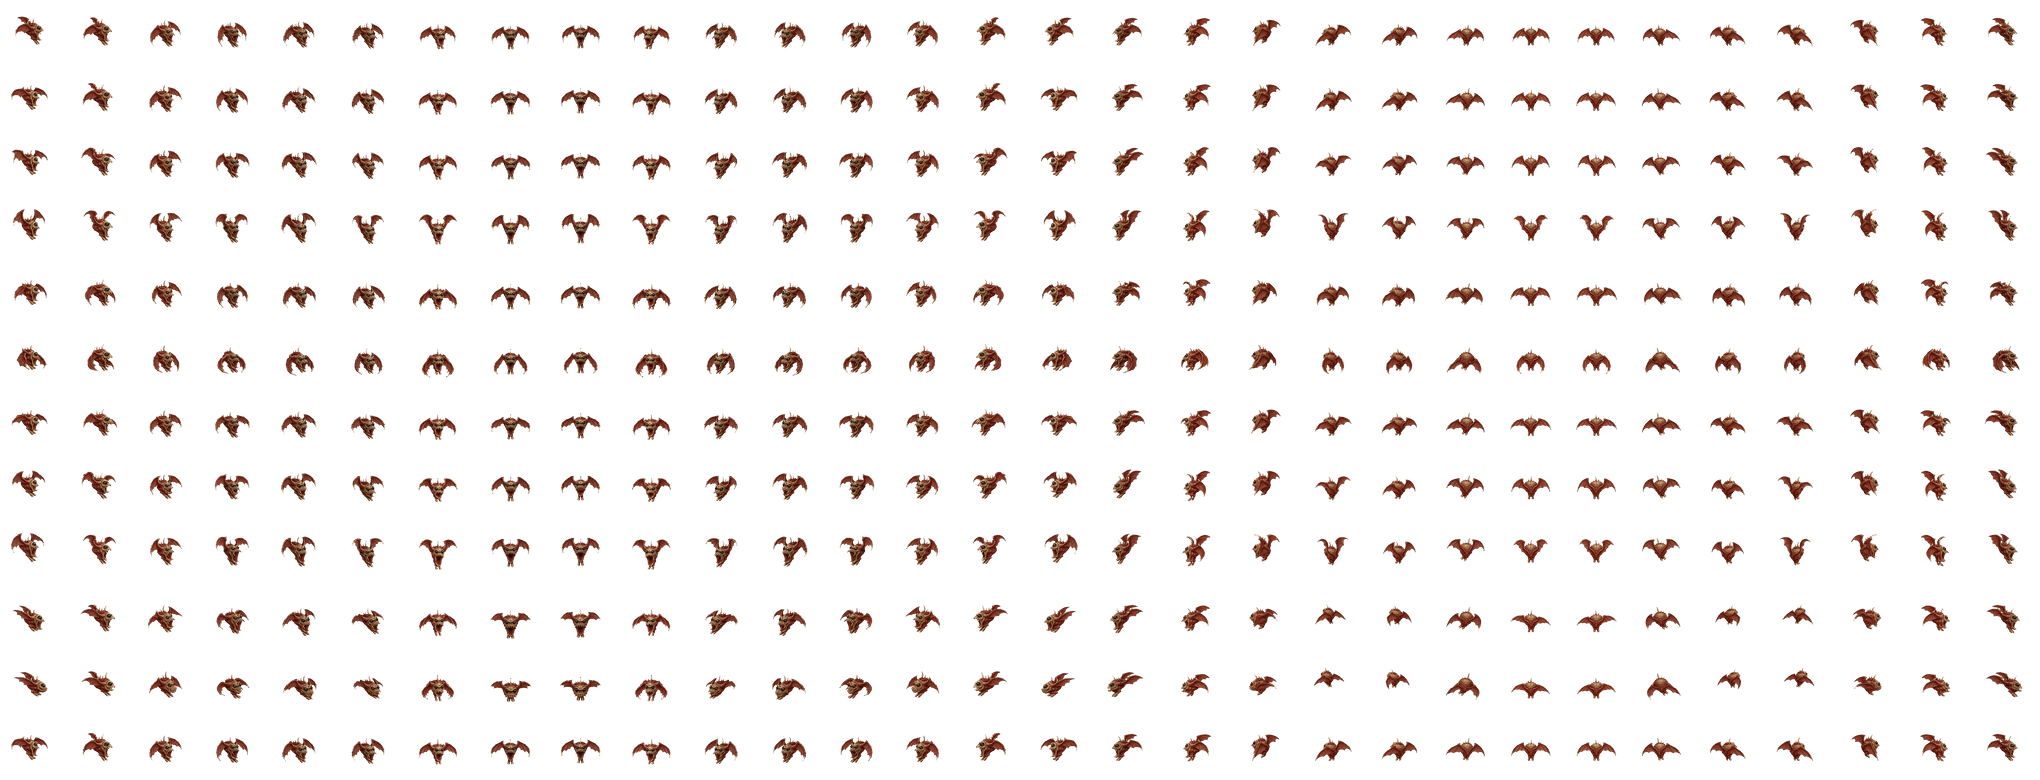
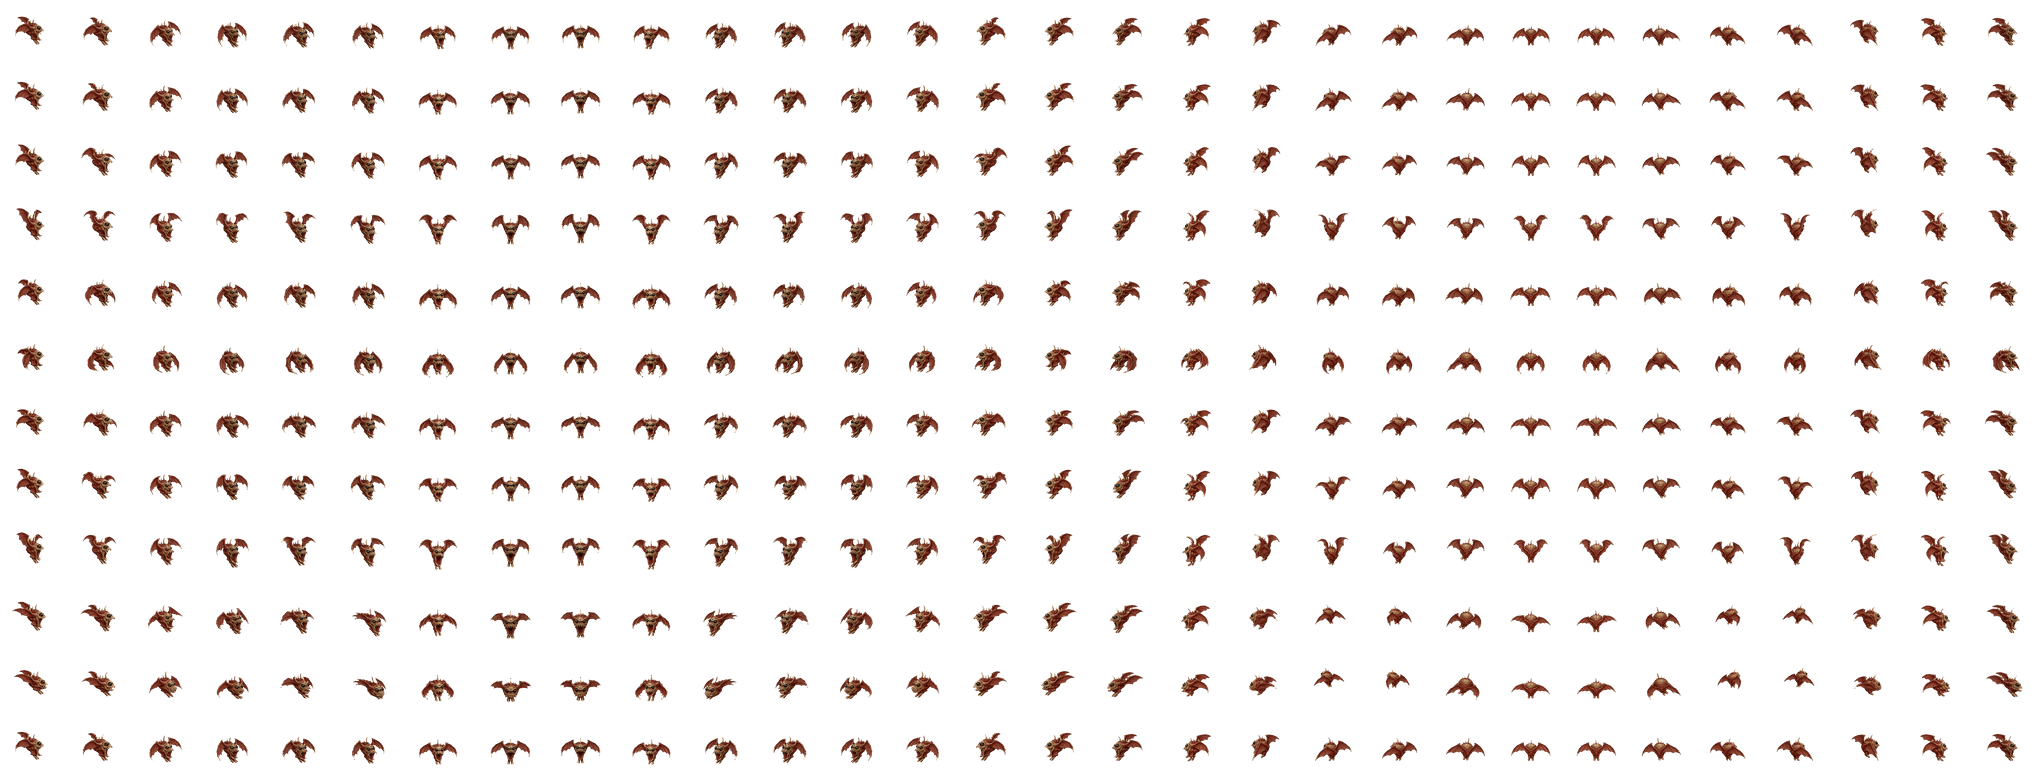
Balthazar: attack cells of h10, h11, h12 and h15 redone to keep the heading's angle
The wind-up of the three-quarter front views swung toward a straight front
view and the side view's attack turned toward the viewer; repainted with
an attack-angle note (art-work/IC5/anim-extra-attack.txt), 4 Codex calls.

Claude-Session: https://claude.ai/code/session_01YTHpmxqo3agdo7MyCCqmwe

diff --git a/web/src/game/attack/sheetVersions.ts b/web/src/game/attack/sheetVersions.ts
@@ -78,9 +78,9 @@ export const SHEET_VERSIONS: Readonly<Record<string, string>> = {
   "monsters/valgos-anim@4x.png": "1pxcc",
   "monsters/valgos-anim@2x.png": "iuc3",
   "monsters/valgos-anim.png": "5nwg",
-  "monsters/balthazar-anim@4x.png": "1ev0y",
-  "monsters/balthazar-anim@2x.png": "flhv",
-  "monsters/balthazar-anim.png": "4pbf",
+  "monsters/balthazar-anim@4x.png": "1ezqb",
+  "monsters/balthazar-anim@2x.png": "fkqa",
+  "monsters/balthazar-anim.png": "4oej",
   "monsters/ape_1-repaint@4x.png": "2lpjk",
   "monsters/ape_1-repaint@2x.png": "qtol",
   "monsters/ape_1-repaint.png": "82zk",
